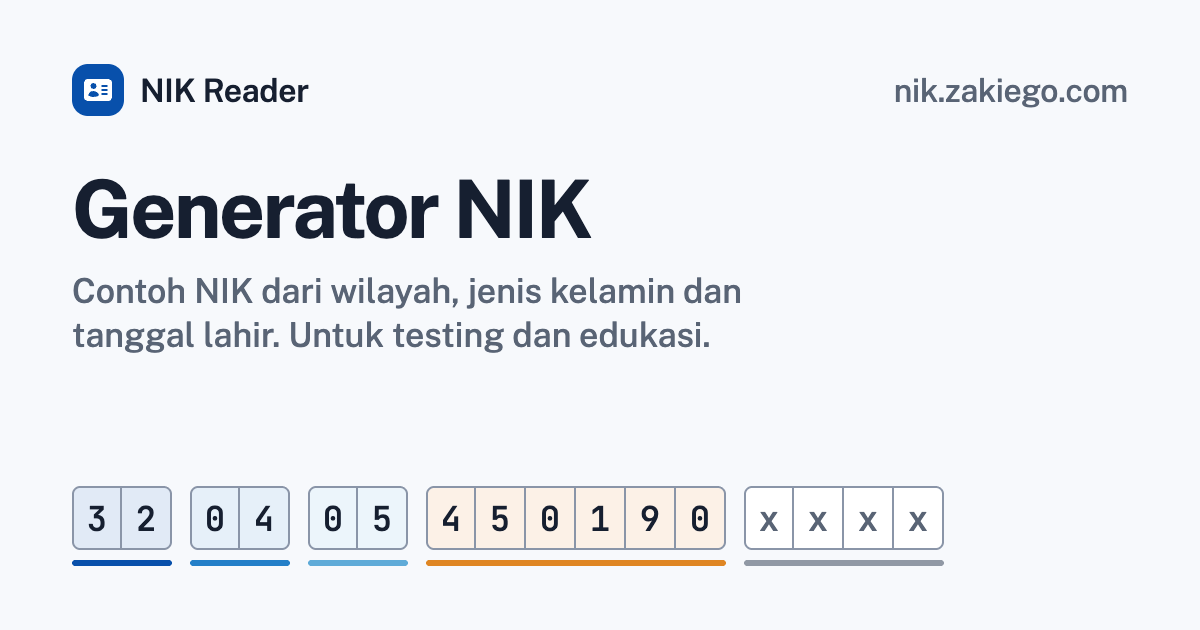
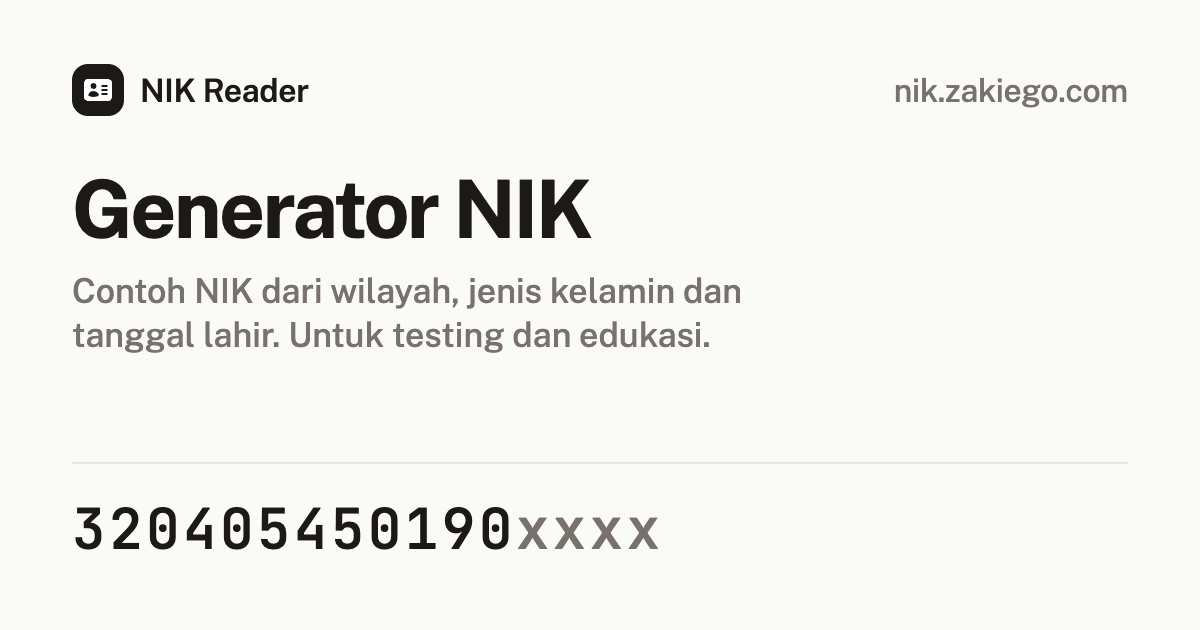
feat(seo): render the OG cards in mono with the NIK as one line

diff --git a/scripts/og/template.html b/scripts/og/template.html
@@ -2,7 +2,7 @@
 <!--
   Open Graph card template, 1200x630. Not deployed: scripts/og/generate.sh
   opens it once per page with ?page=<key> and saves public/og/<key>.png.
-  Colors and fonts mirror styles/globals.css (light theme). Each title is the
+  Colors and fonts mirror styles/globals.css (light theme, mono). Each title is the
   page's h1 (lib/routes.ts), which components/Seo.tsx reuses as the alt text.
 -->
 <html lang="id">
@@ -16,17 +16,10 @@
     />
     <style>
       :root {
-        --background: #f7f9fc;
-        --card: #ffffff;
-        --foreground: #161f30;
-        --muted: #596475;
-        --input: #8a95a8;
-        --primary: #0850ab;
-        --seg-provinsi: #0850ab;
-        --seg-kabupaten: #237fc8;
-        --seg-kecamatan: #5fabd8;
-        --seg-birth: #df8623;
-        --seg-urut: #9199a5;
+        --background: #fafaf9;
+        --foreground: #1c1917;
+        --muted: #78716c;
+        --border: #e7e5e4;
       }
       * {
         box-sizing: border-box;
@@ -58,7 +51,7 @@
         width: 52px;
         height: 52px;
         border-radius: 16px;
-        background: var(--primary);
+        background: var(--foreground);
         display: grid;
         place-items: center;
       }
@@ -90,55 +83,15 @@
       }
       .nik {
         margin-top: auto;
-        display: flex;
-        gap: 18px;
-        align-items: flex-start;
-      }
-      .seg {
-        display: flex;
-        flex-direction: column;
-        gap: 10px;
-      }
-      .seg.dim {
-        opacity: 0.3;
-      }
-      .cells {
-        display: flex;
-      }
-      .cell {
-        width: 50px;
-        height: 64px;
-        display: grid;
-        place-items: center;
-        border: 2px solid var(--input);
-        border-left-width: 0;
-        background: var(--card);
+        padding-top: 28px;
+        border-top: 2px solid var(--border);
         font-family: "JetBrains Mono", monospace;
-        font-size: 34px;
+        font-size: 56px;
         font-weight: 500;
+        letter-spacing: 0.06em;
       }
-      .cell:first-child {
-        border-left-width: 2px;
-        border-radius: 8px 0 0 8px;
-      }
-      .cell:last-child {
-        border-radius: 0 8px 8px 0;
-      }
-      .cell.x {
+      .nik .x {
         color: var(--muted);
-      }
-      .bar {
-        height: 6px;
-        border-radius: 3px;
-        background: var(--seg);
-      }
-      .provinsi { --seg: var(--seg-provinsi); }
-      .kabupaten { --seg: var(--seg-kabupaten); }
-      .kecamatan { --seg: var(--seg-kecamatan); }
-      .birthDate { --seg: var(--seg-birth); }
-      .urut { --seg: var(--seg-urut); }
-      .cell.filled {
-        background: color-mix(in oklab, var(--seg) 12%, white);
       }
     </style>
   </head>
@@ -171,7 +124,6 @@
           title: "Membaca Tanggal Lahir dari NIK",
           lead: "Digit ke-7 sampai ke-12, termasuk aturan +40 untuk perempuan.",
           digits: "3204054501900001",
-          highlight: "birthDate",
         },
         generator: {
           title: "Generator NIK",
@@ -184,34 +136,16 @@
           digits: "3204054501900001",
         },
       };
-      const SEGMENTS = [
-        ["provinsi", 0, 2],
-        ["kabupaten", 2, 4],
-        ["kecamatan", 4, 6],
-        ["birthDate", 6, 12],
-        ["urut", 12, 16],
-      ];
       const page =
         PAGES[new URLSearchParams(location.search).get("page")] ?? PAGES.home;
       document.getElementById("title").textContent = page.title;
       document.getElementById("lead").textContent = page.lead;
       const nik = document.getElementById("nik");
-      for (const [key, start, end] of SEGMENTS) {
-        const seg = document.createElement("div");
-        seg.className = `seg ${key}`;
-        if (page.highlight && page.highlight !== key) seg.classList.add("dim");
-        const cells = document.createElement("div");
-        cells.className = "cells";
-        for (const char of page.digits.slice(start, end)) {
-          const cell = document.createElement("div");
-          cell.className = char === "x" ? "cell x" : "cell filled";
-          cell.textContent = char;
-          cells.append(cell);
-        }
-        const bar = document.createElement("div");
-        bar.className = "bar";
-        seg.append(cells, bar);
-        nik.append(seg);
+      for (const char of page.digits) {
+        const span = document.createElement("span");
+        if (char === "x") span.className = "x";
+        span.textContent = char;
+        nik.append(span);
       }
     </script>
   </body>
